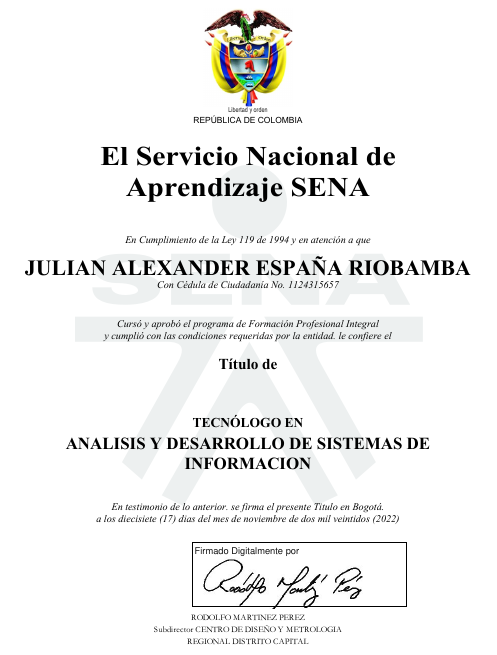
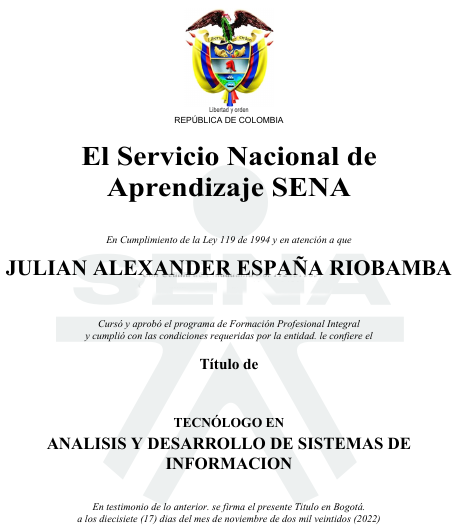
Mostrando estudios finalizado

Changed region(s): [[0.0, 0.0, 0.9846, 0.5725], [0.0923, 0.7533, 0.8923, 0.9944], [0.1231, 0.6026, 0.8615, 0.7232]]

diff --git a/src/pages/profile.js b/src/pages/profile.js
@@ -3,39 +3,44 @@ import Image from 'next/image'
 import Head from 'next/head'
 import Link from 'next/link'
 
+// import Estudios from '../components/Estudios'
+
 import dev from '../assets/img/developer_2.jpg'
 import cirp from '../assets/img/empresas/cirp.png'
 import awaspa from '../assets/img/empresas/awaspa.png'
-import ase from '../../public/logo.jpg'
+import ase from '../assets/img/empresas/ase.jpg'
 // import sena from '../assets/img/education/sena.png'
 // import platzi from '../assets/img/education/platzi.jpg'
 // import ibero from '../assets/img/education/ibero.jpg'
-import tecSistemas from '../../public/estudios/tecSistemas.png'
-
-import ImageShow from '../components/ImageShow'
-// import { ItemsContainer } from '../components/ItemsContainer'
+import tecni from '../assets/img/education/tecnicosistemas.jpg'
+import tecno from '../assets/img/education/tecnologia.png'
 
 import styles from '../styles/Profile.module.scss'
-
 
 const Profile = () => {
 
     const [showImage, setShowImage] = useState(false)
+    const [showImage1, setShowImage1] = useState(false);
 
-    const handleButtonClick = () => {
-        setShowImage(!showImage)
-        // setShowImage(true)
+    const toggleImage1 = () => {
+        setShowImage1(!showImage1);
+    }
+    const toggleImage = () => {
+        setShowImage(!showImage);
     }
 
-    const handleCloseClick = () => {
-        setShowImage(false)
+    const closeImage = () => {
+        setShowImage(false);
+    }
+    const closeImage2 = () => {
+        setShowImage1(false);
     }
 
     return (
 
         <>
             <Head>
-                <title>Mi perfil</title>
+                <title>Sobre mí</title>
             </Head>
 
             <section className={styles.dev}>
@@ -63,150 +68,39 @@ const Profile = () => {
                         <article className={styles['study--areas']}>
 
                             <p id='titulo'>Técnico <br /> en sistemas</p>
-                            
-                            
 
                             <button
-                                className={styles['image-button']} onClick={handleButtonClick}>
-                                Ver
-                            </button>
+                                className={styles['image-button']}
+                                onClick={toggleImage}>Ver</button>
 
-                            {
-                                showImage &&
-                                (
-                                    <>
-                                        <div className="cerrar">
-                                            
-                                            <ImageShow
-                                                src={tecSistemas}
-                                                alt='tecnico'
-                                                onClose={handleCloseClick} />
+                            {/* {showImage1 && <Image src={tecni} alt="Imagen 1" />} */}
 
-                                                <button
-                                                    className={styles['image-button--cerrar']}
-                                                    onClick={handleButtonClick}
-                                                >
-                                                    X
-                                                </button>
+                            {showImage && (
+                                <div className="image-modal">
+                                    <Image src={tecni} alt="Imagen" />
+                                    <button className={styles['image-button--cerrar']} onClick={closeImage}>X</button>
+                                </div>
+                            )}
 
-                                        </div>
-
-                                    </>
-
-                                )
-
-                            }
 
                         </article>
 
                         <article className={styles['study--areas']}>
 
-                            <p>Técnico <br /> en sistemas</p>
+                            <p id='titulo'>Tecnólogo en <br/> análisis de la información</p>
 
                             <button
-                                className={styles['image-button']} onClick={handleButtonClick}>
-                                Ver
-                            </button>
+                                className={styles['image-button']}
+                                onClick={toggleImage1}>Ver</button>
 
-                            {
-                                showImage &&
-                                (
-                                    <>
-                                        <div className="cerrar">
-                                            
-                                            <ImageShow
-                                                src={tecSistemas}
-                                                alt='tecnico'
-                                                onClose={handleCloseClick} />
+                            {/* {showImage2 && <Image src={tecno} alt="Imagen 1" />} */}
 
-                                                <button
-                                                    className={styles['image-button--cerrar']}
-                                                    onClick={handleButtonClick}
-                                                >
-                                                    X
-                                                </button>
-
-                                        </div>
-
-                                    </>
-
-                                )
-
-                            }
-
-                        </article>
-
-                        <article className={styles['study--areas']}>
-
-                            <p>Técnico <br /> en sistemas</p>
-
-                            <button
-                                className={styles['image-button']} onClick={handleButtonClick}>
-                                Ver
-                            </button>
-
-                            {
-                                showImage &&
-                                (
-                                    <>
-                                        <div className="cerrar">
-                                            
-                                            <ImageShow
-                                                src={tecSistemas}
-                                                alt='tecnico'
-                                                onClose={handleCloseClick} />
-
-                                                <button
-                                                    className={styles['image-button--cerrar']}
-                                                    onClick={handleButtonClick}
-                                                >
-                                                    X
-                                                </button>
-
-                                        </div>
-
-                                    </>
-
-                                )
-
-                            }
-
-                        </article>
-
-                        <article className={styles['study--areas']}>
-
-                            <p>Técnico <br /> en sistemas</p>
-
-                            <button
-                                className={styles['image-button']} onClick={handleButtonClick}>
-                                Ver
-                            </button>
-
-                            {
-                                showImage &&
-                                (
-                                    <>
-                                        <div className="cerrar">
-                                            
-                                            <ImageShow
-                                                src={tecSistemas}
-                                                alt='tecnico'
-                                                onClose={handleCloseClick} />
-
-                                                <button
-                                                    className={styles['image-button--cerrar']}
-                                                    onClick={handleButtonClick}
-                                                >
-                                                    X
-                                                </button>
-
-                                        </div>
-
-                                    </>
-
-                                )
-
-                            }
+                            {showImage1 && (
+                                <div className="image-modal">
+                                    <Image src={tecno} alt="Imagen" />
+                                    <button className={styles['image-button--cerrar']} onClick={closeImage2}>X</button>
+                                </div>
+                            )}
 
                         </article>
 

diff --git a/src/components/Estudios.js b/src/components/Estudios.js
@@ -1,0 +1,32 @@
+import React, { useState, useEffect } from 'react'
+
+
+function importAll(r) {
+    return r.keys().map(r)
+}
+
+function Estudios() {
+    const [images, setImages] = useState([])
+
+    useEffect(() => {
+        const importedImages = importAll(require.context('../assets/img/education/', false, /\.(png|jpe?g|svg)$/))
+        setImages(importedImages)
+    }, [])
+
+    return (
+        <div>
+            {images.map((image, index) => (
+                <img key={index} src={image.default} alt={`Image ${index}`} />
+            ))}
+        </div>
+    )
+}
+
+
+export default Estudios
+
+
+
+
+
+

diff --git a/src/pages/index.js b/src/pages/index.js
@@ -1,13 +1,13 @@
 import React from "react"
 import Layout from "../components/Layout"
-// import Accesorios from "../containers/Accesorios"
 import Profile from './profile'
+// import App from '../app.js'
 
 const Index = () => {
   return (
     <Layout>
       <Profile/>
-      {/* <Accesorios/> */}
+      {/* <App/> */}
     </Layout>
   )
 }

diff --git a/src/app.js b/src/app.js
@@ -1,0 +1,12 @@
+const express = require('express')
+const app = express()
+const port = 3001
+
+app.get('/', (req, res) => {
+    res.sendFile(__dirname, './pages/index.js')
+})
+
+// la app must listen in the port declarado
+app.listen(port, () => {
+    console.log('Ejecutando from port: ' + port)
+})

diff --git a/src/pages/_document.js b/src/pages/_document.js
@@ -14,8 +14,7 @@ export default function Document() {
 
         <script async src="https://pagead2.googlesyndication.com/pagead/js/adsbygoogle.js?client=ca-pub-3332683017412148"
           crossorigin="anonymous">
-            
-          </script>
+        </script>
       </Head>
 
       <body>

diff --git a/src/styles/Profile.module.scss b/src/styles/Profile.module.scss
@@ -201,7 +201,7 @@
         box-shadow: 5px 5px 1px #baba;
 
         p {
-          font-size: 1.1rem;
+          font-size: 1rem;
           text-align: center;
         }
 
